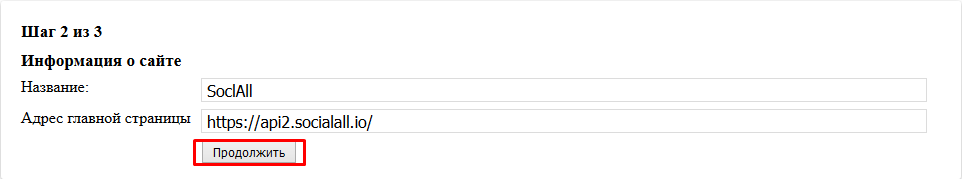
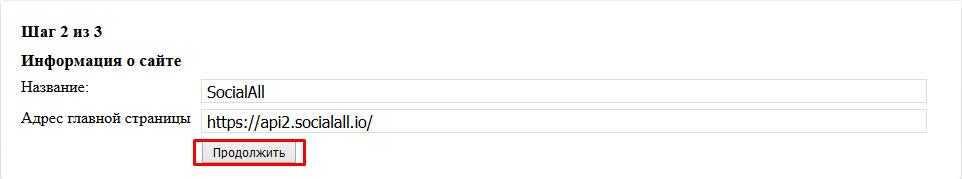
update

Changed region(s): [[0.1871, 0.4749, 0.9667, 0.5866], [0.1871, 0.419, 0.9667, 0.4469]]

diff --git a/docs/developer-guide/nodejs.md b/docs/developer-guide/nodejs.md
@@ -13,7 +13,7 @@ npm install soclall-api --save
 
 ```
 // Register app id and secret key
-var SoclAll = require('soclall-api'), soclall = new SoclAll('app_id', 'secret_key');
+var SocialAll = require('soclall-api'), socialall = new SoclAll('app_id', 'secret_key');
 ```
 
 ## Authentication
@@ -22,7 +22,7 @@ Let user login and authenticate with your application.
 
 ```
 // Get login url
-var login_url = soclall.getLoginUrl('network', 'callback_url');
+var login_url = socialall.getLoginUrl('network', 'callback_url');
 // Redirect user to login url
 res.redirect(login_url);
 ```
@@ -35,7 +35,7 @@ This endpoint retrieves user information.
 
 ```
 // An user object returns in callback function
-soclall.getUser('token', function(err, user){});
+socialall.getUser('token', function(err, user){});
 ```
 
 The `result` returns [`user`](user-object.md) JSON object structured like this:
@@ -58,7 +58,7 @@ This endpoint retrieves user's friends.
 
 ```
 // An array of user returns in callback function
-soclall.getFriends('token', function(err, friends){});
+socialall.getFriends('token', function(err, friends){});
 ```
 
 The `result` returns an array of [`user`](user-object.md) object like this:
@@ -86,7 +86,7 @@ This endpoint will send `message` to user's friends.
 
 ```
 // Send a message to friends
-soclall.sendMessage('token', 'message', friend_ids, ['title',] function(err){});
+socialall.sendMessage('token', 'message', friend_ids, ['title',] function(err){});
 ```
 
 ### /publish
@@ -95,7 +95,7 @@ This endpoint will publish a message to user's wall/timeline/stream.
 
 ```
 // Publish a message to wall/timeline/stream
-soclall.publish('token', 'message', function(err){});
+socialall.publish('token', 'message', function(err){});
 ```
 
 The `result` returns a JSON object structured like this:

diff --git a/docs/developer-guide/php.md b/docs/developer-guide/php.md
@@ -7,7 +7,7 @@ Clone with git
 ```
 <?php
 // Register app id and secret key
-$soclall = new SoclAll('app_id', 'secret_key');
+$socialall = new SoclAll('app_id', 'secret_key');
 ?>
 ```
 
@@ -18,7 +18,7 @@ Let user login and authenticate with your application.
 ```
 <?php
 // Get login url
-$login_url = $soclall->getLoginUrl('network', 'callback_url');
+$login_url = $socialall->getLoginUrl('network', 'callback_url');
 // Redirect user to login url
 header('Location: '.$login_url);
 ?>
@@ -33,7 +33,7 @@ This endpoint retrieves user information.
 ```
 <?php
 // Get user object
-$user = $soclall->getUser('token');
+$user = $socialall->getUser('token');
 ?>
 ```
 
@@ -58,7 +58,7 @@ This endpoint retrieves user's friends.
 ```
 <?php
 // Get friend list
-$friends = $soclall->getFriends('token');
+$friends = $socialall->getFriends('token');
 ?>
 ```
 
@@ -88,7 +88,7 @@ This endpoint will send `message` to user's friends.
 ```
 <?php
 // Send a message to friends
-$soclall->sendMessage('token', 'message', $friend_ids, $title = '');
+$socialall->sendMessage('token', 'message', $friend_ids, $title = '');
 ?>
 ```
 
@@ -99,7 +99,7 @@ This endpoint will publish a message to user's wall/timeline/stream.
 ```
 <?php
 // Publish a message to wall/timeline/stream
-$soclall->publish('token', 'message');
+$socialall->publish('token', 'message');
 ?>
 ```
 

diff --git a/docs/user-guide/mailru.md b/docs/user-guide/mailru.md
@@ -10,7 +10,7 @@ __To register an application on Mail.Ru, please follow the steps below:__
     ![Mail.Ru : Accept the rules](/img/mailru-2-accept-per.png)
     <div class="soclall-br"></div>
 3. Fill the create form with the below information
-    * Название: SoclAll
+    * Название: (name of application)
     * Адрес главной страницы: __https://api2.socialall.io/__ <br />
    Then press the button in red rectangle.
     <div class="soclall-br"></div>
